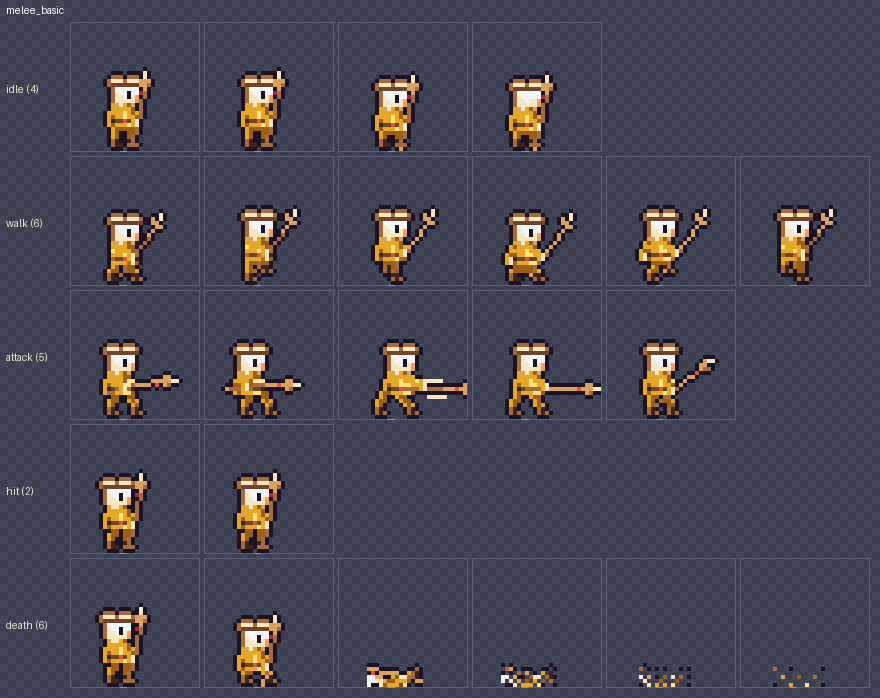
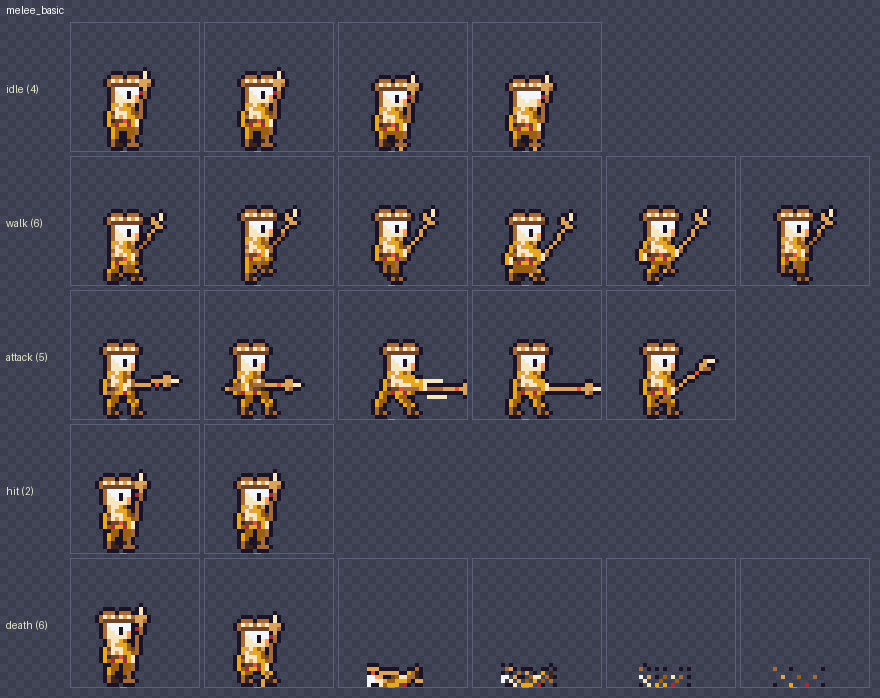
[Design] 식빵병·제빵 대장 빵 세부 묘사(A26)와 화면 끝 표시용 둥지 아이콘 추가, 합성 렌더 판독·색각 기록

diff --git a/tools/art/chars_player.py b/tools/art/chars_player.py
@@ -227,9 +227,10 @@ def worker_anims():
 # MELEE (unit_melee_basic) - spearman
 # ---------------------------------------------------------------------------
 # A28: helmet = a toast slice (two rounded top bumps, crust rim, crumb face) -> "식빵 기사"
+# A26 (art 0.12.1): crumb pores (T) in the toast helmet, toast-slice cuirass with a crust rim
 SPEAR_HEAD = Sprite.parse("""
 ..mmm.mmm.
-.mcccmcccm
+.mcTcmcTcm
 .mmmmmmmmm
 ..hLLLLLL.
 ..hSLLKLL.
@@ -238,12 +239,12 @@ SPEAR_HEAD = Sprite.parse("""
 ...sSSSs..
 """)
 SPEAR_TORSO = Sprite.parse("""
-..bBCb..
-.bBBCCb.
-.BBBCCcB
-.bBBCCCb
+..oUUo..
+.oUTUUo.
+.OUUUTUO
+.oUTUUUo
 .wOOYOOw
-.bBBBCCb
+.byBByBb
 """)
 
 

diff --git a/tools/art/chars_retheme.py b/tools/art/chars_retheme.py
@@ -438,8 +438,8 @@ BAKER_TORSO = Sprite.parse("""
 ...JJJJJJ...
 ..JJJJJJJJU.
 .JJBBBBBBJU.
-.JJBBCCBBJJ.
-.UJBBCCBBJU.
+.JJBoTToBJJ.
+.UJBTUTTBJU.
 .UyyyyZyyyU.
 .bBBBBBBCCb.
 .bBBBBBBBCb.
@@ -465,6 +465,8 @@ def rolling_pin(cv, hand, pose, body):
             put(t, s, "U" if s >= 1.0 else ("o" if s <= -1.0 else "T"))
     for t in (11.5, 12, 12.5, 13):
         put(t, 0, "O")
+    for t in (4, 7.5):                                # A26: flour dust on the barrel
+        put(t, 0.5, "J")
 
 
 def hero_baker_body():

diff --git a/tools/art/ui.py b/tools/art/ui.py
@@ -242,6 +242,21 @@ oUUUyUUUTo
 oUUUUUUTTo
 .ooooooOo.
 """)
+# art 0.12.1: mould nest for an optional right-edge indicator (04 A11); same shapes as base_enemy
+ICONS16["icon_nest"] = S("""
+.tz...........
+.ll...........
+.Dl.....t.....
+..D....lD.....
+..D..DDlDD....
+..DDDllllDD...
+.DDlltlllllD..
+DDllllltllllD.
+DKKKlllllllDD.
+DKQKDlltlllDD.
+DKKKDllllllDD.
+.DDDDDDDDDDD..
+""")
 # allied army icon: toast-helmet soldier in egg-wash gold (was steel + blue tabard)
 ICONS16["icon_army"] = S("""
 ..oo.oo..

diff --git a/tools/art/build.py b/tools/art/build.py
@@ -73,7 +73,7 @@ REL_ATLAS = "assets/atlases"
 PREV = os.path.join(ROOT, "docs", "art", "previews")
 # Layout locks: existing regions keep their page position across rebuilds (see atlas._pack).
 LOCK_DIR = os.path.join(HERE, "layout_lock")
-ART_VERSION = "0.12.0"
+ART_VERSION = "0.12.1"
 
 REQUIRED_CHAR_ANIMS = ("idle", "walk", "attack", "death")
 

diff --git a/docs/art/ART_DIRECTION.md b/docs/art/ART_DIRECTION.md
@@ -1,5 +1,5 @@
 # ART_DIRECTION.md — visual identity and asset contract (owner: 03-art)
-Art version 0.12.0 · 2026-10-31 · Status: **theme DECIDED by the user (Q1 = A "빵집 기사단 vs 곰팡이 군단", 2026-10-31)**. Art 0.8.0 applies it as a palette-level retheme (tools/art/theme.py). Silhouettes, frame sizes, pivots, hit/spawn frames and frame names are unchanged. A bread-specific detail pass (crust scoring, loaf-shaped helmets) is still open.
+Art version 0.12.1 · 2026-10-31 · Status: **theme DECIDED by the user (Q1 = A "빵집 기사단 vs 곰팡이 군단", 2026-10-31)**. Art 0.8.0 applies it as a palette-level retheme (tools/art/theme.py). Silhouettes, frame sizes, pivots, hit/spawn frames and frame names are unchanged. A bread-specific detail pass (crust scoring, loaf-shaped helmets) is still open.
 
 ## 1. How the art is made (provenance)
 - Tool inventory on this machine: Python 3.11.9, Pillow 11.2.1, numpy 2.2.4. There are **no** image-generation, Aseprite or ImageMagick tools. Godot 4.7.2 is in tools/engine (owned by 02).
@@ -60,7 +60,7 @@ Role cues at 1× (09 R09-03-1): lancer = horse + blue pennant; catapult = wheele
 
 ## 6. UI art (`ui_main`, always resident)
 **Bakery chrome (art 0.11.0):** the blue/purple chrome is replaced by crust, flour and butter. `btn` / `card_frame` = crust `#6e4528` (C_TEXT 7.2:1), `btn_pressed` / `panel_dark` = dark crust `#3d2519` (12.5:1), `btn_disabled` / `card_frame_disabled` = slate `#2f3140` (C_TEXT_DIM 5.8:1, dL* 12.7 vs active), `btn_gold` / `card_frame_selected` = butter `#e5a826` with dark text (8.5:1), `panel` = flour `#f6e7c1` with dark text (14.7:1). Ally card portraits sit on crust, enemy portraits on mould `#1e2b30` (dL* 16.8). Move buttons are crust buns. Skill icons: 밀대 내려찍기 = rolling pin, 갓 구운 함성 = cream banner, 빵가루 포격 = crumb shells. `icon_supply` = flour sack (01 R4 / D25), `icon_army` = toast soldier. The energy icon and `bar_fill_mana` stay blue on purpose (resource colour, matches 04's C_MANA). Measured by `tools/art/ui_contrast.py` (docs/art/evidence/ui_bakery/ui_contrast.json). Note: most visible menu/HUD panels are drawn by 04's code colours (ui_style.gd), not by these frames.
-Icons: `icon_gold` (alias `icon_supply`), `icon_mana` (alias `icon_energy`), `icon_worker`, `icon_gem` (meta-currency candidate), `icon_star`, `icon_star_empty`, `icon_heart`, `icon_lock`, `icon_pause`, `icon_play`, `icon_speed_1x/2x`, `icon_settings`, `icon_home`, `icon_retry`, `icon_close`, `icon_sound`, `icon_sound_off`, `icon_skull`, `icon_crown`, `icon_army`.
+Icons: `icon_gold` (alias `icon_supply`), `icon_mana` (alias `icon_energy`), `icon_worker`, `icon_gem` (meta-currency candidate), `icon_star`, `icon_star_empty`, `icon_heart`, `icon_lock`, `icon_pause`, `icon_play`, `icon_speed_1x/2x`, `icon_settings`, `icon_home`, `icon_retry`, `icon_close`, `icon_sound`, `icon_sound_off`, `icon_skull`, `icon_crown`, `icon_army`, `icon_nest` (art 0.12.1: mould nest for an optional right-edge indicator).
 Cards: `card_<unit_id>` for worker, melee_basic, ranged_basic, tank, hero_captain. These are 24×24 portraits cropped automatically from idle frame 0, so they stay in sync with the sprites. Enemy portraits are `portrait_<enemy_id>`. Skills are `icon_<skill_id>` and `skill_<skill_id>`, both 24×24.
 9-slice (frame JSON has `nine_slice: [l,t,r,b]`): `btn`, `btn_pressed`, `btn_disabled`, `btn_gold`, `panel`, `panel_dark`, `card_frame`, `card_frame_disabled`, `card_frame_selected`, `bar_frame`. Bar fills (4×6, 9-slice 1): `bar_fill_ally`, `bar_fill_enemy`, `bar_fill_mana`, `bar_fill_gold`, `bar_fill_cooldown`.
 Digits 5×7 incl. outline: `digit_0..9`, `digit_plus/minus/slash/x` in white, plus `digit_gold_*` and `digit_red_*` variants (for damage and income popups).

diff --git a/docs/art/ART_AUDIT.md b/docs/art/ART_AUDIT.md
@@ -134,3 +134,15 @@ Same attacks re-run on this build:
 - **Not solved by art: t = 10 s.** r01 enemy base x = 1100 - 40 = 1060, frame left edge 1012. A 640-px view shows it only when cam_x >= 692 (800-px view: >= 612). The camera follows the hero, which is near the start at 10 s, so 09's M3 needs an edge indicator (04) or a camera change (02). Requests 04 A11 / 02 A13.
 - **Not verified:** real-game capture of the nest (deferred until after 18:30, no Godot run); the exported-PCK check ran at 17:42 on this build (12/12 pages, 15 loads, no raw PNG) and nothing in assets changed after it except docs; players.
 - A26 (bread detail for the two largest allies) not started in this change.
+
+## Round 11 (2026-10-31 18:03) — A26 bread detail (식빵병, 제빵 대장) + icon_nest (art 0.12.1)
+- **A26, the two largest allies on screen:** melee_basic 식빵 기사 gets crumb pores in the toast helmet and a toast-slice cuirass (cream crumb, tan pores, crust rim) instead of the gold tabard; hero_captain 제빵 대장 gets a loaf emblem on the apron and flour dust on the rolling pin. Pixels only: contract_diff vs HEAD shows no frame/anim change in char_player (0 moved rects).
+- **Python composite only** (readability.py scenes r01/r05/r10 x village/dark/bright; no Godot render because of 08's 18:00-18:30 quiet window). The 2x contact sheet is a nearest x2 of the same composite, so the 2x numbers equal the 1x numbers. docs/art/evidence/a26/a26_metrics.json.
+  | unit | silhouette min before -> after | closest enemy dE76 protan / deutan / tritan before -> after |
+  |---|---|---|
+  | melee_basic | 64.9 -> 64.9 % (dark variant) | 29.8 / 31.5 / 24.7 -> 26.1 / 28.3 / 24.0 (e_swarm) |
+  | hero_captain | 67.7 -> 67.7 % (bright variant) | 18.6 / 21.8 / 21.8 -> 17.6 / 20.9 / 21.5 (e_swarm) |
+  Silhouette lines (>= 60 %) still pass; the faction distance dropped by at most 3.7 dE and stays far above 07's line (2.3) and 03's line (10). Faction mass test unchanged (protan 16.37, dL* +12.7). All scene minima are identical to before.
+- **icon_nest** (16x16 frame, art 14x12) in ui_main for an optional right-edge indicator (04 A11): dark mould mound, a spore stalk, a cave mouth with a cyan eye, same shapes and keys as base_enemy. ui_main stays 256x256 (100 regions, occupancy 0.36), so GPU memory is unchanged.
+- 08 asset_budget_check --worktree (Python): PASS, worst battle 9.25 MiB, all pages 9.50, menu 0.50 MiB. 08's inventory now counts **both** per-locale title pages as menu pages (conservative); the measured single-locale menu is 0.375 MiB (round 9).
+- **Not verified:** Godot render/readability run, exported-PCK check and real-game capture for this change (deferred until after 18:30); players. Main-tree cache now stale for char_player, bases and ui_main (02).

diff --git a/coordination/handoffs/03-art.md b/coordination/handoffs/03-art.md
@@ -1,5 +1,5 @@
 # 03-art handoff
-Updated: 2026-10-31 17:49 +09:00 (real time from Get-Date). Q1 = A DECIDED; Q3 working title 빵집 기사단: 곰팡이 디펜스 (store name pending KIPRIS); Q2 business model DEFERRED (no ad/purchase UI). Art version 0.12.0.
+Updated: 2026-10-31 18:04 +09:00 (real time from Get-Date). Q1 = A DECIDED; Q3 working title 빵집 기사단: 곰팡이 디펜스 (store name pending KIPRIS); Q2 business model DEFERRED (no ad/purchase UI). Art version 0.12.1.
 
 ## Session
 - Kiro CLI session ID: not visible from inside the session, so I cannot record it. Codex should read it from coordination/.runtime/quota/sessions.json / the launcher.
@@ -88,8 +88,13 @@ Clean for all 03 paths (assets/, tools/art/, docs/art/, own coordination files) 
 - A26 not started.
 - Commit e3c4621 [Design]: PUSHED origin/main (verified with git branch -r --contains at 17:50). Then 07 A6 and 09 A2 re-verify requests.
 
+## Milestone 13 (this session): A26 bread detail (식빵병, 제빵 대장) + icon_nest
+- chars_player.py SPEAR_HEAD/SPEAR_TORSO (toast helmet pores, toast-slice cuirass); chars_retheme.py BAKER_TORSO loaf emblem + rolling-pin flour dust; ui.py ICONS16["icon_nest"]. Contract: only `icon_nest` added (ui_main stays 256x256).
+- Python composite (no Godot, 08 quiet window): silhouette min melee 64.9 -> 64.9 %, hero 67.7 -> 67.7 %; closest enemy dE76 protan melee 29.8 -> 26.1, hero 18.6 -> 17.6. docs/art/evidence/a26/.
+- validate.py --determinism PASS (3 WARN: main-tree cache stale for char_player, bases, ui_main); 08 asset_budget_check --worktree PASS (menu 0.50 in 08's conservative model, battle 9.25).
+- NOT verified for this change: Godot readability render, exported-PCK check, real-game capture (after 18:30).
+
 ## Exact next steps on resume
-1. After 18:30: HEAD-snapshot capture of r01/r03 on the secondary monitor when the nest is on screen (e.g. r03 autoplay late, or after the hero walks right); check the left-edge read.
-2. A26 bread detail on the two largest allies on screen (tank 통식빵, siege 화덕포 or hero), same frame contract.
-3. If 04 wants it: icon_nest 16x16 for an edge indicator.
-4. Read incoming *-to-03-art.md (04 title_block line, 08 menu model).
+1. After 18:30: `pwsh tools/art/run_godot_pack_check.ps1`, `run_godot_readability.ps1 -Tag v0121`, and a HEAD-snapshot capture on the secondary monitor (nest on screen, toast knight + hero close up). Record results in ART_AUDIT round 11.
+2. A26 for the remaining allies (tank 통식빵, fast 프레첼, siege 화덕포 detail), same contract.
+3. Read incoming *-to-03-art.md (04 title_block line, edge indicator; 08 menu model).

diff --git a/docs/art/ATLAS_BUDGET.md b/docs/art/ATLAS_BUDGET.md
@@ -1,11 +1,11 @@
 # ATLAS_BUDGET.md (generated by tools/art/build.py — do not hand-edit)
-Art version 0.12.0. Numbers are measured from the written files. GPU bytes = width × height × 4
+Art version 0.12.1. Numbers are measured from the written files. GPU bytes = width × height × 4
 (RGBA8; import mode Lossless, no VRAM compression, mipmaps off). Godot keeps the decoded image in VRAM only
 (no CPU copy for CompressedTexture2D in Lossless mode); add ~0 for mipmaps (disabled).
 
 | Page | Group | Load policy | Size | Disk (PNG, 8-bit indexed) | GPU (RGBA8) | Occupancy | Unique regions |
 |---|---|---|---|---|---|---|---|
-| `char_player` | character | battle | 512×512 | 11.8 KiB | 1.00 MiB | 0.58 | 113 |
+| `char_player` | character | battle | 512×512 | 11.9 KiB | 1.00 MiB | 0.58 | 113 |
 | `char_enemy` | character | battle_roster | 512×256 | 4.9 KiB | 0.50 MiB | 0.40 | 55 |
 | `char_player_adv` | character | battle_roster | 512×256 | 5.4 KiB | 0.50 MiB | 0.37 | 31 |
 | `char_enemy_adv` | character | battle_roster | 512×256 | 4.6 KiB | 0.50 MiB | 0.47 | 36 |
@@ -13,11 +13,11 @@ Art version 0.12.0. Numbers are measured from the written files. GPU bytes = wid
 | `char_boss_overlord` | character | battle_roster | 1024×512 | 11.2 KiB | 2.00 MiB | 0.42 | 32 |
 | `bases` | base | battle | 512×512 | 10.6 KiB | 1.00 MiB | 0.57 | 14 |
 | `fx_combat` | fx | battle | 512×256 | 4.3 KiB | 0.50 MiB | 0.51 | 79 |
-| `ui_main` | ui | always | 256×256 | 5.3 KiB | 0.25 MiB | 0.35 | 99 |
+| `ui_main` | ui | always | 256×256 | 5.4 KiB | 0.25 MiB | 0.36 | 100 |
 | `ui_title_ko` | title | menu | 512×64 | 2.5 KiB | 0.12 MiB | 0.56 | 2 |
 | `ui_title_en` | title | menu | 256×128 | 3.2 KiB | 0.12 MiB | 0.51 | 2 |
 | `biome_meadow` | biome | per_round | 1024×512 | 12.1 KiB | 2.00 MiB | 0.46 | 5 |
-| **Total** | | | | **82.3 KiB** | **9.50 MiB** | | |
+| **Total** | | | | **82.6 KiB** | **9.50 MiB** | | |
 
 Residency by scene (provisional, matches ENGINE.md §8 load rules):
 - Menu / round select: `always` pages + the current locale's `ui_title_<locale>` page = **0.375 MiB**

diff --git a/coordination/status/03-art.md b/coordination/status/03-art.md
@@ -1,6 +1,6 @@
 # 03-art status
-Updated: 2026-10-31 17:49 +09:00
-Status: MILESTONE 12 DELIVERED (commit e3c4621, PUSHED origin/main, verified with git branch -r --contains). Mould nest redrawn for 09 X9 (frame contract unchanged); Python composite edge metrics pass; real-game capture deferred until after 08's quiet window (unverified).
-Current task: done. Next = real-game nest capture after 18:30, A26 bread detail.
-Validation: validate.py --determinism PASS; exported PCK 12/12 at 17:42 on this build; 08 asset_budget_check --worktree PASS; nest_check.py all lines pass.
-Open with other owners: 04 A10 (title_block line, chrome colours), 04 A11 (edge indicator), 02 A12/A13 (re-import, camera), 08 A8 (menu model counts group ui only).
+Updated: 2026-10-31 18:04 +09:00
+Status: MILESTONE 13 DELIVERED (commit SHA in coordination/handoffs/03-art.md). A26 bread detail on 식빵병 and 제빵 대장 (pixels only), icon_nest added to ui_main (size unchanged). Python composite metrics recorded; Godot render, PCK check and real-game capture deferred until after 18:30 (unverified).
+Current task: done. Next = post-18:30 Godot checks, A26 for the other allies.
+Validation: validate.py --determinism PASS; 08 asset_budget_check --worktree PASS.
+Open with other owners: 04 A10/A11/A12 (title_block line, chrome colours, edge indicator), 02 A12/A13 (re-import, camera), 08 A8/A9.

diff --git a/coordination/requests/03-art-to-08-performance.md b/coordination/requests/03-art-to-08-performance.md
@@ -39,3 +39,6 @@ Correction to A1: the dynamic font cache pages are LA8, 128 KiB per 256x256 page
 - Real residency from snapshot logs (texture_report): menu with the current client = ui_main 0.25 MiB (logo falls back to text until 04 A10); with 04's one-line change simulated = ui_main + ui_title_ko = **0.375 MiB**. With group `ui` (first build) app.gd preloaded both pages = 0.50 MiB, which is why I changed the group.
 - Your `asset_budget_check.py --worktree` PASS but reports menu 0.25 / worst battle 9.25 because budget_inventory.py counts group `ui` only. Suggest: menu = always pages + the largest `menu` page (one locale); battle +0.125 MiB unless 04 releases the title page on battle enter (04 A10). Locale switching in one session adds the other page (+0.125).
 - biome_meadow (now Wheatfield Village art), char_player, fx_combat, ui_main: pixels changed, sizes and rects unchanged.
+
+## A9 2026-10-31 18:03 +09:00 — art 0.12.1: pixels + one 16x16 frame, sizes unchanged (QUEUED)
+- bases (mould nest, e3c4621), char_player (A26) and ui_main (A26 cards + new `icon_nest`) changed pixels; every page size is unchanged. Your `asset_budget_check.py --worktree`: PASS, worst battle 9.25, all pages 9.50, menu 0.50 MiB. Your inventory now counts both per-locale title pages (conservative); a single-locale menu measured 0.375 MiB in the snapshot log (A8).

diff --git a/coordination/requests/03-art-to-04-client.md b/coordination/requests/03-art-to-04-client.md
@@ -73,3 +73,7 @@ Menu residency is at 08's 0.50 MiB cap (ui_main 0.25 + ui_title 0.25). Full tabl
 ## A11 2026-10-31 17:49 +09:00 — mould nest is redrawn; t = 10 s visibility needs an edge indicator (QUEUED)
 - base_enemy is now a mould nest (same frame contract). When its left 24-40 px are on screen it passes 03's lines (dL* 31-33 vs the village, dE76 >= 29 in all CVD simulations; docs/art/evidence/nest_x9/).
 - 09's X9 M3 asks for "nest or enemy indicator visible at t = 10 s". In r01 the nest's left edge is at x 1012 and a 640-px view only reaches it when cam_x >= 692, so at 10 s it is off screen. If you add a right-edge indicator (an arrow + the nest portrait or a small icon), 03 can draw a 16x16 icon_nest in ui_main on request. Your call. No real-game capture yet (08 quiet window).
+
+## A12 2026-10-31 18:03 +09:00 — icon_nest ready (optional) + ui_main pixels changed (QUEUED)
+- `icon_nest` (ui_main, 16x16, pivot centre) is available if you add the right-edge nest indicator (A11). ui_main size is unchanged (256x256).
+- card_melee_basic and card_hero_captain pixels changed (A26 bread detail); rects unchanged. Main-tree cache is stale until 02 re-imports. No real-game capture of this change yet (08 quiet window).
